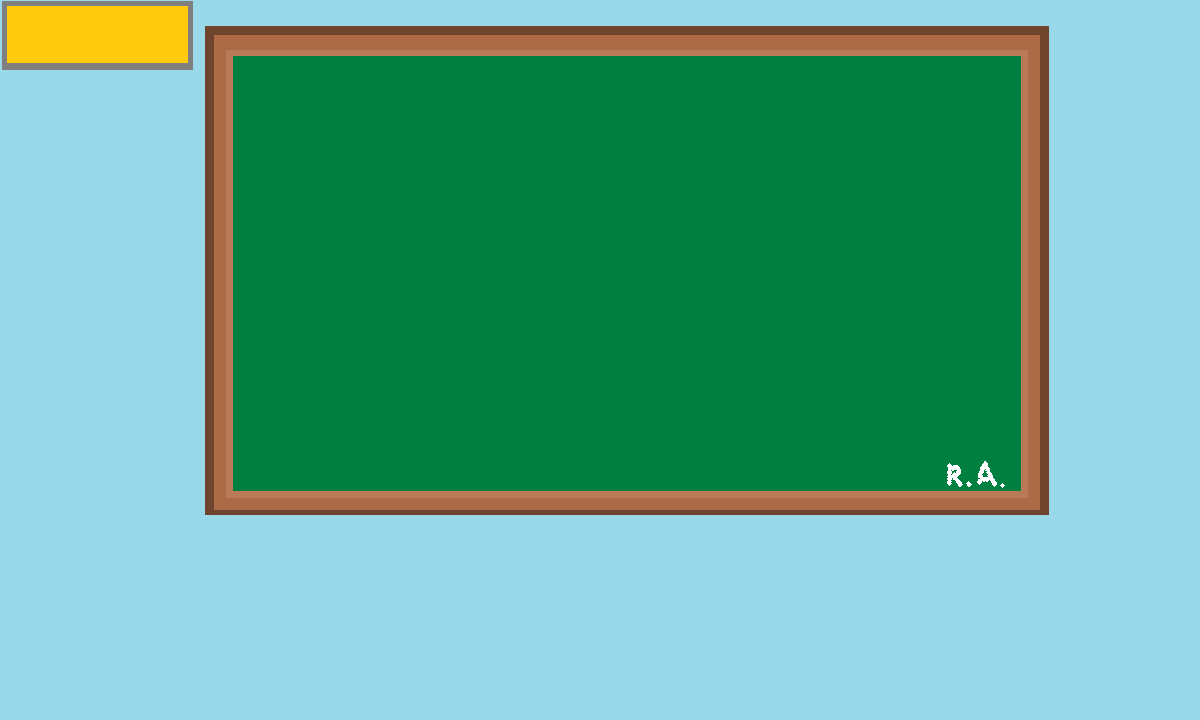
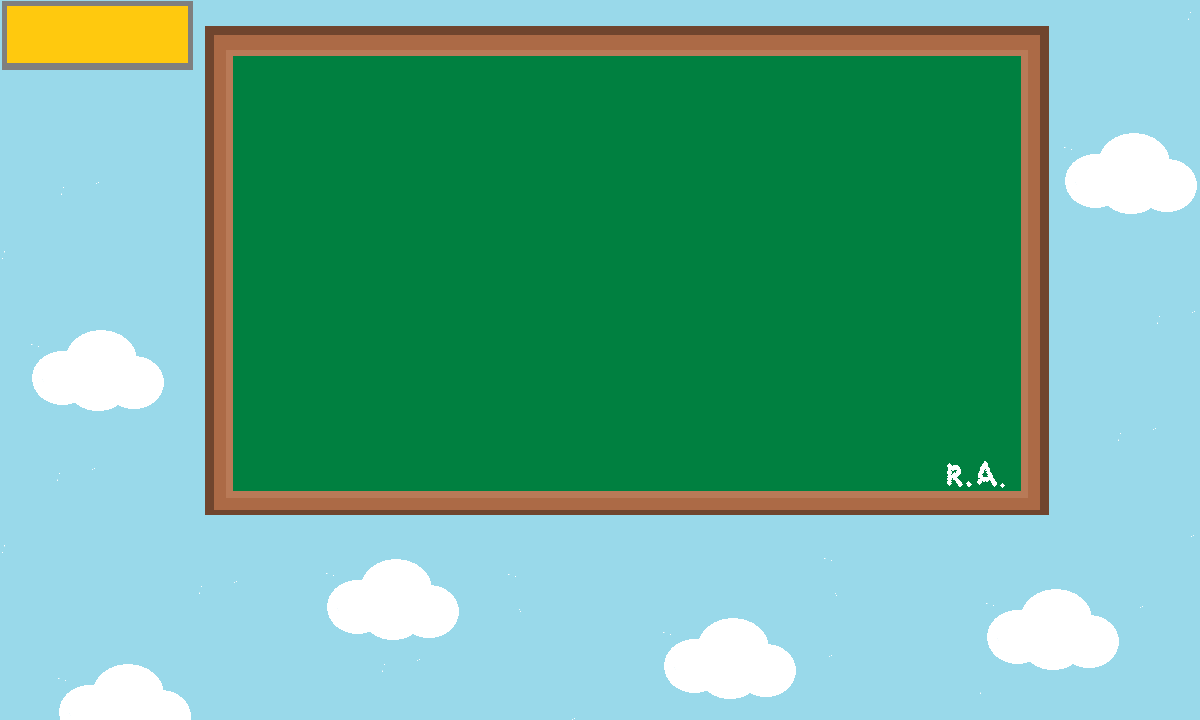
)

diff --git a/src/com/company/View.java b/src/com/company/View.java
@@ -32,21 +32,21 @@ public class View {
         answerTwo = new Button("11");
         answerThree = new Button("9");
         retryButton = new Button("Retry");
-//         Answer 1
+//        Answer 1
         answerOne.setLayoutX(400);
         answerOne.setLayoutY(570);
         answerOne.setScaleX(2.5);
         answerOne.setScaleY(3.8);
         answerOne.setStyle("-fx-background-color: gray; -fx-text-fill: white");
         answerOne.setFont(Font.font("Verdana", FontWeight.BOLD, 17));
-//         Answer 2
+//        Answer 2
         answerTwo.setLayoutX(600);
         answerTwo.setLayoutY(570);
         answerTwo.setScaleX(2.5);
         answerTwo.setScaleY(3.8);
         answerTwo.setStyle("-fx-background-color: orange; -fx-text-fill: white");
         answerTwo.setFont(Font.font("Verdana", FontWeight.BOLD, 17));
-//         Answer 3
+//        Answer 3
         answerThree.setLayoutX(800);
         answerThree.setLayoutY(570);
         answerThree.setScaleX(2.5);
@@ -60,34 +60,37 @@ public class View {
         retryButton.setScaleY(2.4);
         retryButton.setStyle("-fx-background-color: green; -fx-text-fill: white");
         retryButton.setFont(Font.font("Verdana", FontWeight.BOLD, 17));
-//         Timer field
+//        Timer field
         timerField = new Text();
         timerField.setLayoutX(1210);
         timerField.setLayoutY(50);
 //        Score field
         scoreField = new Text();
         scoreField.setLayoutX(15);
-        scoreField.setLayoutY(50);
+        scoreField.setLayoutY(53);
         scoreField.setText(Integer.toString(0));
         scoreField.setFont(Font.font("Verdana", FontWeight.MEDIUM, 49));
+        scoreField.setStrokeWidth(2);
+        scoreField.setStroke(Color.WHITE);
 //        Game over score
         gameOverScoreField = new Text();
-        gameOverScoreField.setLayoutX(270);
-        gameOverScoreField.setLayoutY(400);
+        gameOverScoreField.setLayoutX(285);
+        gameOverScoreField.setLayoutY(420);
         gameOverScoreField.setFont(Font.font("Verdana", FontWeight.BOLD, 65));
-        gameOverScoreField.setStyle("-fx-text-fill: white");
-//          Graphics content
+        gameOverScoreField.setFill(Color.WHITE);
+//        Graphics content
         canvas = new Canvas(1200,350);
         gc = canvas.getGraphicsContext2D();
 //        Position of the image
-      //  ScreenObject screenObject = new ScreenObject(gc, 275,150);
-       // model.addObjectToArray(screenObject);
         Timer timer = new Timer();
         TimerTask timerTask = new TimerTask() {
             @Override
             public void run() {
                 timerField.setText(timerLength+"");
-                gameOverScoreField.setText("        Score: "+model.getTopScore());
+                timerField.setStrokeWidth(2);
+                timerField.setStroke(Color.BLACK);
+                timerField.setFill(Color.WHITE);
+                gameOverScoreField.setText("               "+model.getTopScore());
                 if(timerLength >= 10){
                     timerField.setFont(Font.font("Verdana", FontWeight.BOLD, 50));
                 }else if(timerLength <= 1){
@@ -98,8 +101,10 @@ public class View {
                     model.getEquation().gameOver();
                     timer.purge();
                     this.cancel();
+                    AudioHandler.getInstance().stopAllSounds();
                 }else{
                     timerField.setFont(Font.font("Verdana", FontWeight.BOLD, 50));
+                    timerField.setStroke(Color.BLACK);
                     timerField.setFill(Color.RED);
                 }
                 timerLength--;

diff --git a/src/com/company/Main.java b/src/com/company/Main.java
@@ -25,19 +25,16 @@ public class Main extends Application {
         stage.setResizable(false);
         stage.setAlwaysOnTop(true);
         Button startButton = new Button("Start");
-        Text gameDescription = new Text("See how many points you can get before the timer runs out.");
 //        Start Button
         startButton.setLayoutX(600);
         startButton.setLayoutY(400);
         startButton.setScaleX(4.5);
         startButton.setScaleY(3);
-//        Game Description
-        gameDescription.setLayoutX(375);
-        gameDescription.setLayoutY(300);
-        gameDescription.setFont(Font.font("Verdana", FontWeight.BOLD, 15));
+        startButton.setFont(Font.font("Verdana", FontWeight.BOLD, 17));
+        startButton.setStyle("-fx-background-color: orange; -fx-text-fill: white");
         Pane start = new Pane();
-        start.getChildren().addAll(startButton, gameDescription);
-
+        start.setStyle("-fx-focus-color: transparent; -fx-faint-focus-color: transparent; -fx-background-image: url(/images/backgroundStart.png); -fx-background-repeat: none");
+        start.getChildren().addAll(startButton);
         startButton.setOnMouseClicked(event -> {
             Pane root = new Pane();
             stage.setScene(new Scene(root, 1280, 720));

diff --git a/src/com/company/AudioHandler.java b/src/com/company/AudioHandler.java
@@ -4,7 +4,7 @@ import javafx.scene.media.AudioClip;
 
 public class AudioHandler {
     private static AudioHandler instance;
-    AudioClip mainAudio, correctAudio, incorrectAudio;
+    private AudioClip mainAudio, correctAudio, incorrectAudio;
     public static AudioHandler getInstance() {
         if (instance == null) {
             instance = new AudioHandler();
@@ -21,13 +21,18 @@ public class AudioHandler {
     public void playBackground(){
         mainAudio.play();
     }
+
     public void playCorrectSound(){
         correctAudio.play();
     }
+
     public void playIncorrectSound(){
         incorrectAudio.play();
     }
-    public void stopAllSounds(){
 
+    public void stopAllSounds(){
+        mainAudio.stop();
+        correctAudio.stop();
+        incorrectAudio.stop();
     }
 }

diff --git a/src/com/company/GameObject.java b/src/com/company/GameObject.java
@@ -21,4 +21,3 @@ public class GameObject {
             gc.drawImage(img, x, y, 700, 200);
     }
 }
-
